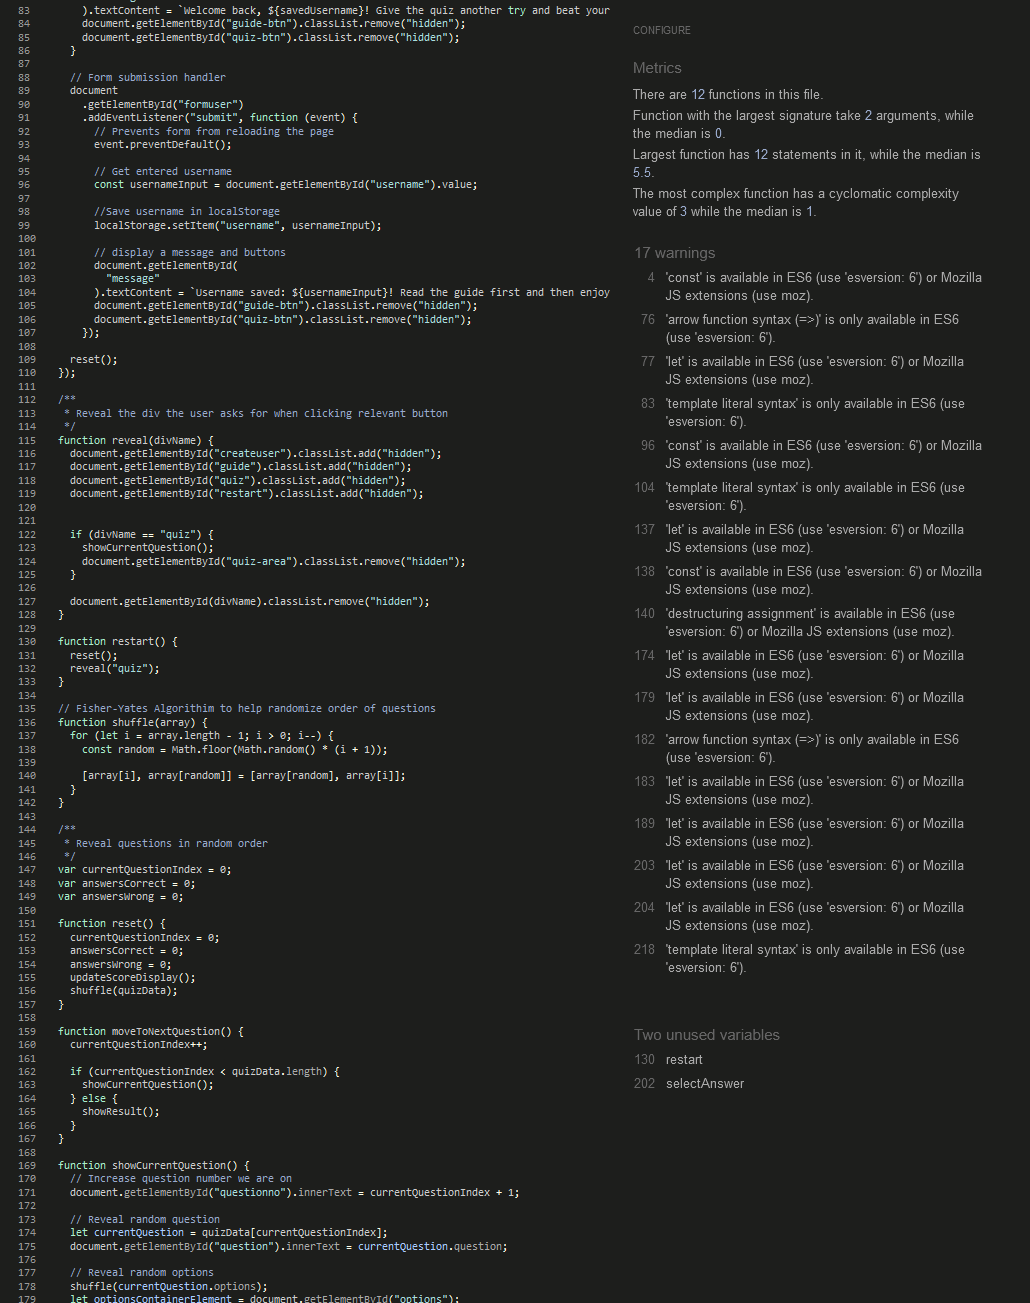
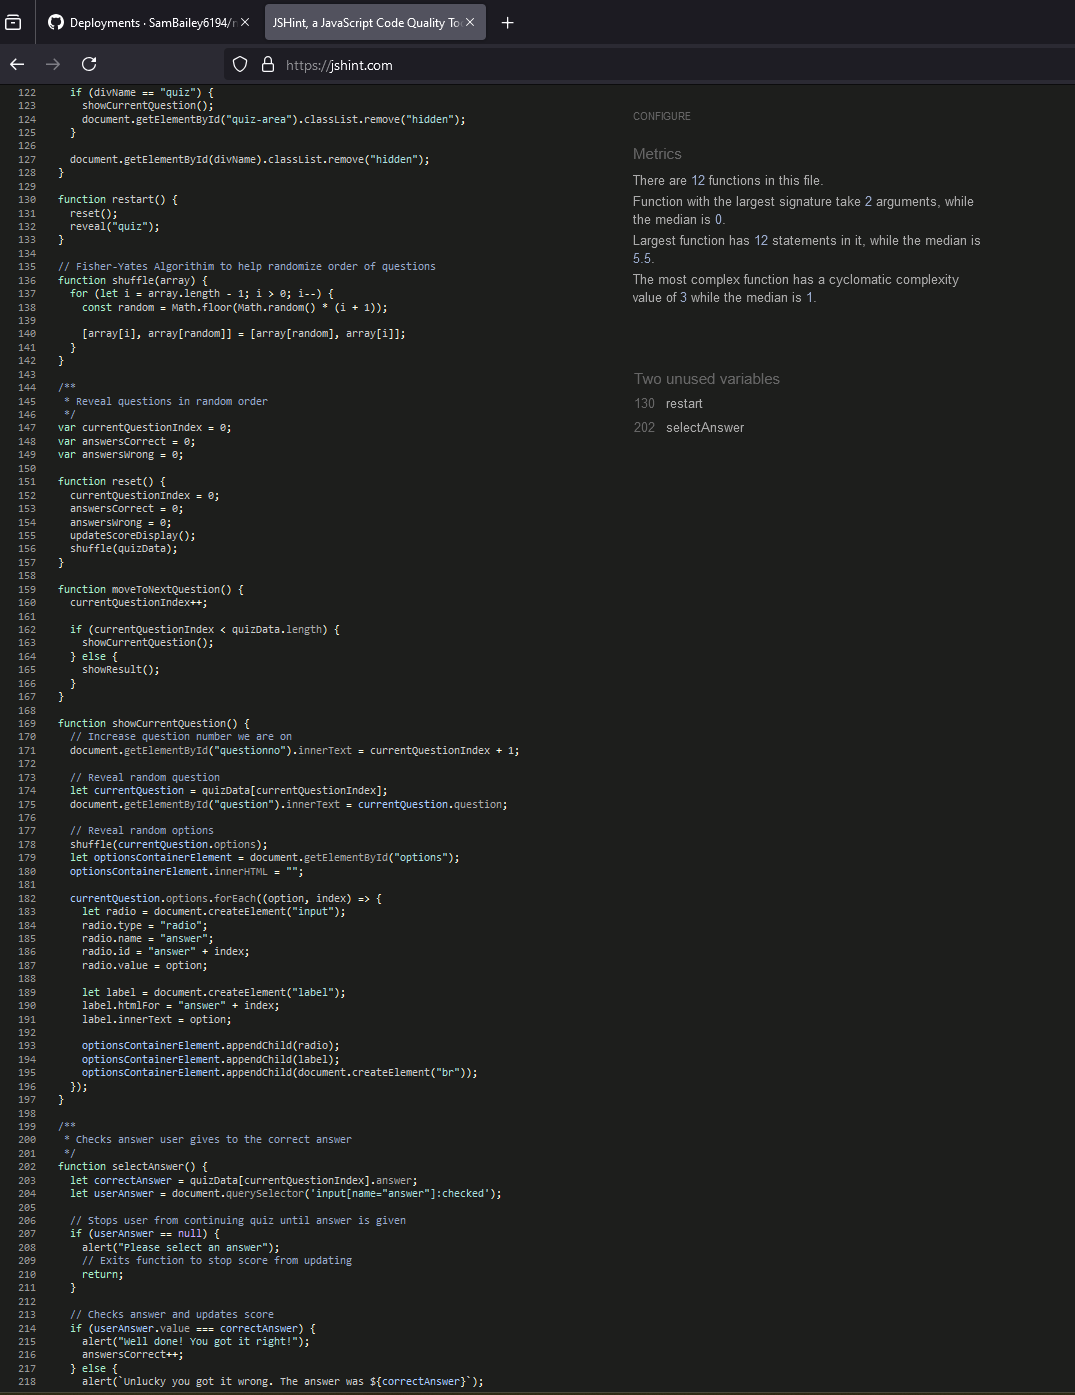
Update readme features section and upload latest JS Validator screenshot

diff --git a/README.md b/README.md
@@ -12,13 +12,45 @@ Below are the features for the website and at the end is listed any features tha
 
 ### Existing Features
 
-- __Home Page__
+#### Username Creation
 
-  - __Header__
-
-    - 
+  - When the user first accesses the page they are invited to create a username, the user can either hit enter or click submit user
+  - Once created it shows a message that they have created a username and it has been saved and the guide and quiz buttons appear
+  - If the user is revisiting the site they are welcomed back and can go to the guide or the quiz
     
-    ![Homepage Header](insert link)
+  ![UsernameCreation](assets\readmeimgs\usernamecreation.png)
+
+  ![UsernameCreated](assets\readmeimgs\usernamecreatedmessage.png)
+
+  ![UserReturns](assets\readmeimgs\userreturns.png)
+
+#### Guide
+
+  - Here the user can read how to do the quiz
+  - They can then click go to quiz when they are ready
+    - If they accessed the guide from the username creation when they click the go to quiz button it starts them from question 1
+    - If they accessed the guide from the quiz area when they click go to quiz button they join the quiz from where they left off
+    
+  ![Guide](assets\readmeimgs\guidetoquiz.png)
+
+#### Quiz
+
+  - Here the user can test their knowledge on christmas songs, both carols and popular songs
+  - They can click the answer they think it is either by clicking the radio buttons or the name of the song
+  - Once they are happy with their choice they can click submit answer and a alert box pops up and tells them if they got it correct or wrong, if wrong it tells them the correct answer
+  - The scoreboard then updates either the correct or wrong score
+  - The question order is randomised
+  - For each question the order of the options are randomised as well
+  - The randomisation enables for users to redo the quiz and have to read through the questions and options carefully rather than remembering where to click
+    
+  ![Quiz](assets\readmeimgs\quizsection.png)
+
+#### Quiz Finished
+
+  - Here the user can see their score in terms of how many they got correct and how many wrong
+  - There is also a button that allows them to restart the quiz if they so wish
+    
+  ![EndofQuiz](assets\readmeimgs\quizfinished.png)
 
 ### Features Left to Implement
 
